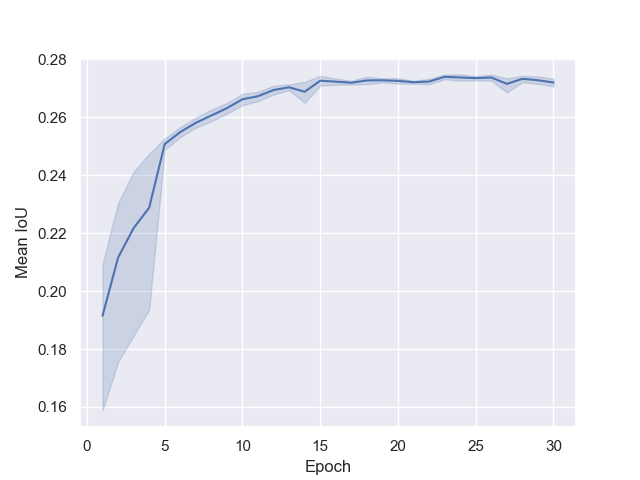
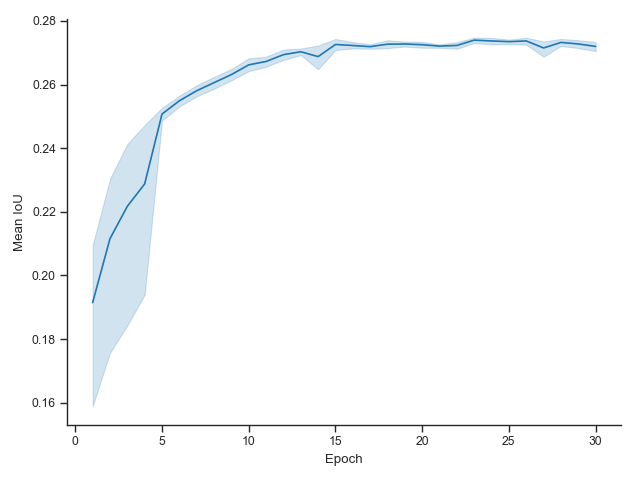
stop for now

Changed region(s): [[0.0, 0.0312, 0.9688, 1.0]]

diff --git a/scripts/coco_stuff_small_confidences/plot.py b/scripts/coco_stuff_small_confidences/plot.py
@@ -5,7 +5,9 @@ import seaborn as sns
 
 
 def set_styles():
-    sns.set(style="darkgrid")
+    # Seaborn
+    sns.set_context("paper")
+    sns.set_style("ticks")
 
 
 def get_data():
@@ -27,7 +29,10 @@ def get_data():
 
 def plot(df):
     plotobj = sns.lineplot(x="Epoch", y="Mean IoU", data=df)
-    plotobj.get_figure().savefig("test.png")
+    sns.despine()
+    fig = plotobj.get_figure()
+    fig.tight_layout()
+    fig.savefig("test.png")
 
 
 def main():
